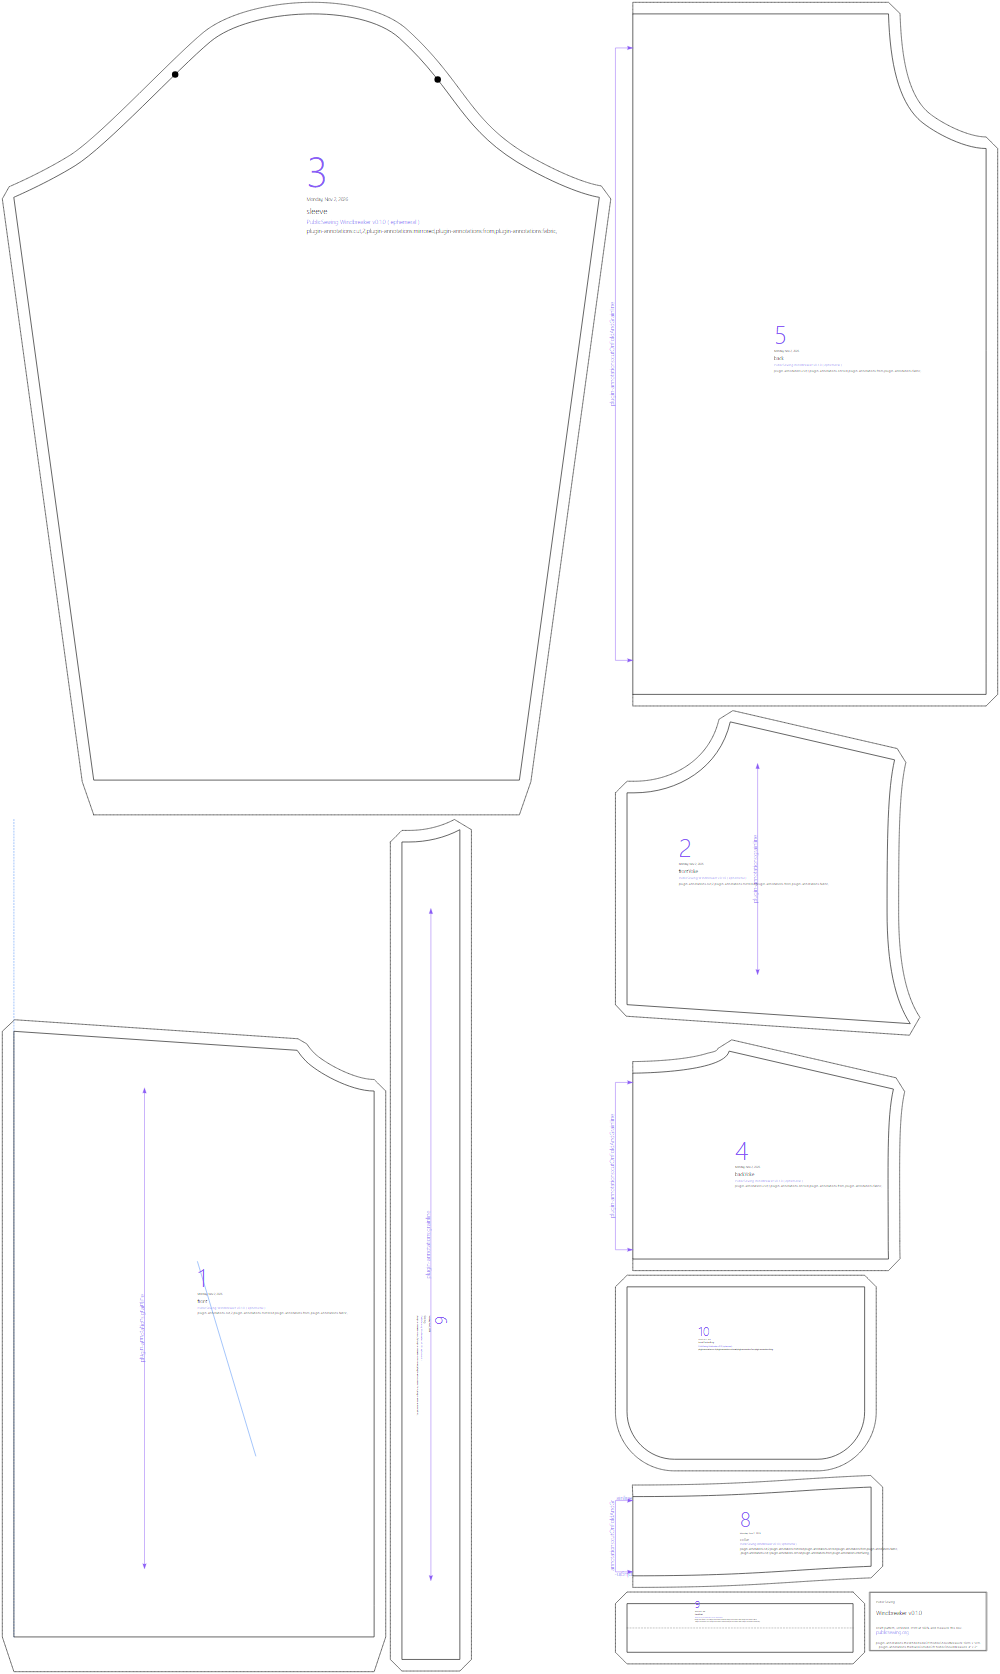
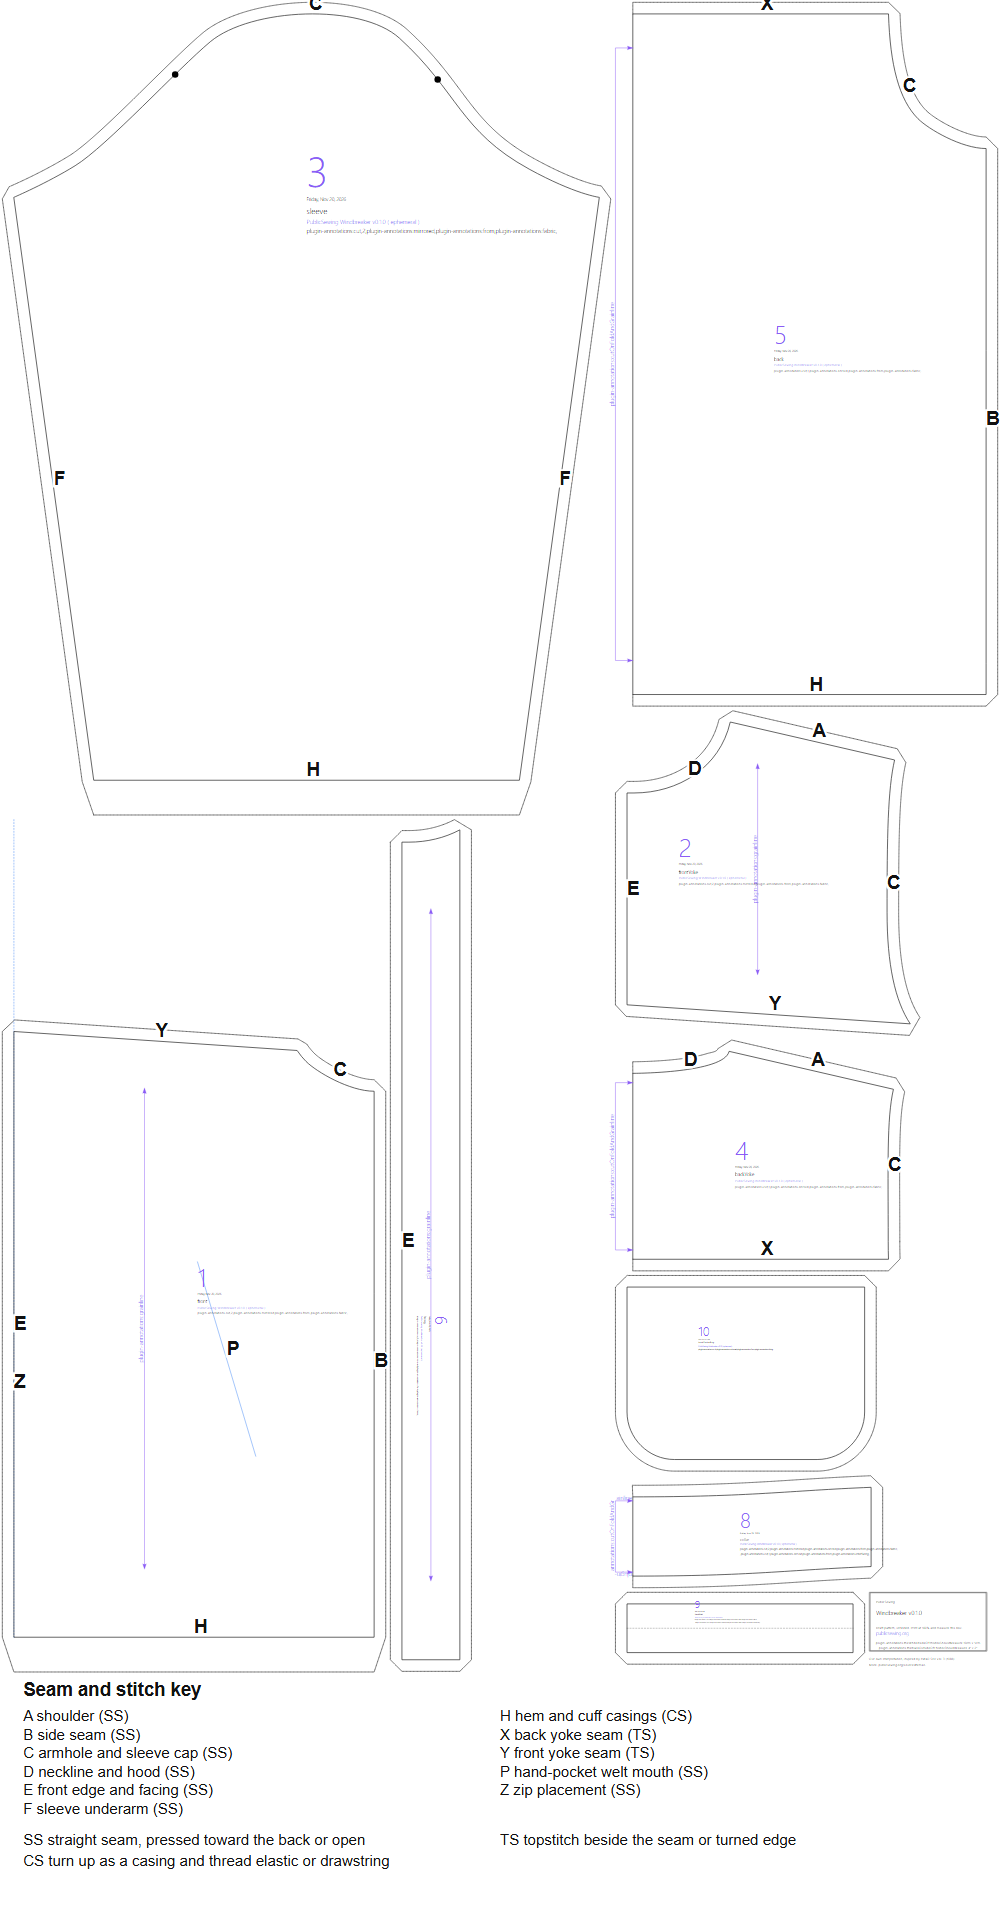
Map the windbreaker: yokes, hood, zip, hand pockets and casings
The quilted jacket and winter coat opt out of the inherited map until mapped.

diff --git a/designs/windbreaker/BRIEF.md b/designs/windbreaker/BRIEF.md
@@ -49,19 +49,15 @@ A straight, hip-length jacket for summer:
 | Facing | (not tabulated) | `facingWidth` 5% of chest, behind the zip |
 
 ## Construction order
-1. Welt pockets in the lower fronts: interface the welts, fold each lengthwise, lay it on the
-   mouth line with a bag piece over it, stitch, cut the mouth, turn the bag through, press the
-   welt over the mouth and sew its ends down; the second bag piece on, then the bags together.
-2. Front yokes to the lower fronts (ease the lower front onto the yoke); back yoke to the back.
-   Topstitch the yoke seams.
-3. Shoulders; side seams.
-4. Hood: sew the crown seam; with a drawstring, work two eyelets near the front ends of the face
-   edge, then fold the casing back and stitch it. Sew the hood to the neckline, its notch to the
-   shoulder seam, front edge to front edge.
-5. Zip between the fronts and the facings, the facings turned to the inside, catching the hood's
-   front ends.
-6. Sleeves: underarm seam, then set in.
-7. Hem and cuffs turned up as casings, elastic in the cuffs and the sides of the hem.
+Letters are the seam and placement codes on the pattern map; numbers are printed on the pieces. **SS** straight seam, **TS** topstitch, **CS** a casing turned up for elastic or a drawstring.
+
+1. Welt pockets in the lower fronts **1**: interface the welts **9**, fold each lengthwise, lay it on the mouth line **P** with a bag piece **10** over it, stitch, cut the mouth, turn the bag through, press the welt over the mouth and sew its ends down; then the second bag piece, and the bags together.
+2. Sew the front yokes **2** to the lower fronts **1** at **Y**, and the back yoke **4** to the back **5** at **X**. Topstitch the yoke seams with **TS**.
+3. Sew the shoulders **A** of the front and back yokes **2**, **4**, then the side seams **B** of the fronts **1** and back **5**.
+4. Hood **7**: sew the crown seam **R**; with a drawstring, work two eyelets near the front ends of the face edge, then fold the casing back along **K** and stitch it with **CS**. Sew the hood to the neckline **D** of the yokes **2** and **4**, its notch to the shoulder seam.
+5. Sew the zip between the fronts **1** and **2** and the facings **6** along **Z** and the front edges **E**, the facings turned to the inside, catching the hood's **7** front ends.
+6. Sleeves **3**: sew the underarm seam **F**, then set each into the armhole **C** of the yokes **2**, **4**, front **1** and back **5**.
+7. Turn up the hem of the fronts **1** and back **5** and the sleeve cuffs **3** as casings **H** (**CS**), with elastic in the cuffs and the sides of the hem.
 
 ## Changes and what isn't modelled
 - **Geometry from Brian, not ЕМКО's tables.** ЕМКО drafts its own base construction from its
